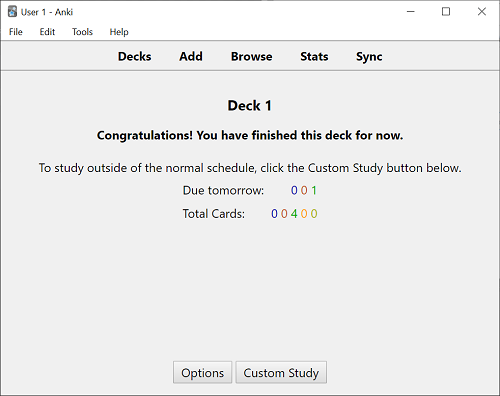
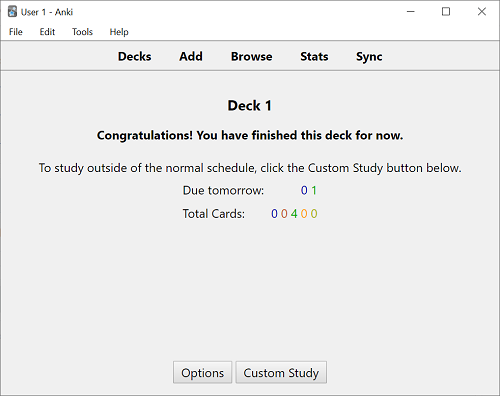
Due tomorrow changes

diff --git a/more_overview_stats/__init__.py b/more_overview_stats/__init__.py
@@ -48,12 +48,10 @@ def table(self):
         dueTomorrow = _limit([
             # new
             min(dconf.get('new').get('perDay'), totals[0]),
-            # lern
-           counts[1],
             # review
             sched.col.db.scalar("""
-                select count() from cards where did in %s and queue in (2)
-                and due <= ?""" % sched._deckLimit(), sched.today + 1)
+                select count() from cards where did = %s and queue in (2)
+                and due = ?""" % deck.get('id'), sched.today + 1)
         ])
 
     html = ''
@@ -79,10 +77,9 @@ def table(self):
         html += '''
             <tr><td>%s:</td><td align=right>
                 <font title="new" color=#00a>%s</font>
-                <font title="lern" color=#C35617>%s</font>
                 <font title="review" color=#0a0>%s</font>
             </td></tr>''' % (_("Due tomorrow"), dueTomorrow[0], 
-            dueTomorrow[1], dueTomorrow[2])
+            dueTomorrow[1])
     html += '''
         <tr><td>%s:</td><td align=right>
             <font title="new" color=#00a>%s</font>
